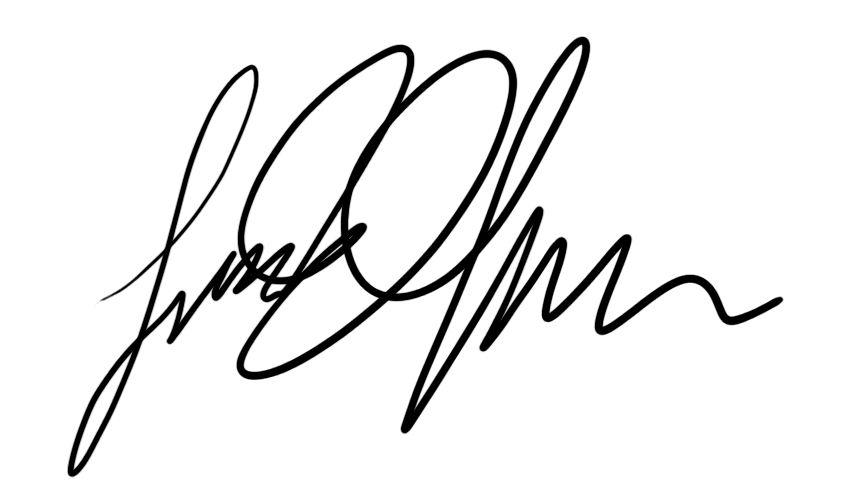
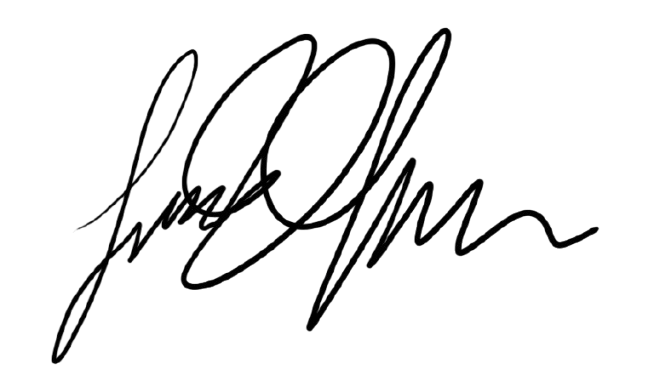
Fix: Signature image & Binary error
There was an error when the application tried to save when someone generated a certificate due the binary content, now is handled.

Also the image of the signature was fixed to look better in the certificate

diff --git a/backend/src/main/resources/templates/certificado.html b/backend/src/main/resources/templates/certificado.html
@@ -85,23 +85,23 @@
         }
 
         .firma-block {
-            margin-top: 5px;
+            margin-top: 60px;
         }
 
         .firma-block img {
             width: 150px;
-            margin-bottom: 5px;
+            display: block;
+            margin-bottom: -18px;
         }
 
         .firma-line {
             width: 200px;
-            border-top: 1px solid #000;
-            margin-top: 10px;
-            margin-bottom: 5px;
+            border-top: 1.2px solid #000;
+            margin-top: 0;
         }
 
         .firma-text {
-            margin: 2px 0;
+            margin: 10px 0 2px 0;
             font-weight: bold;
             font-size: 10pt;
         }

diff --git a/backend/src/main/java/com/unibague/magno/infrastructure/filter/ActionLoggingFilter.java b/backend/src/main/java/com/unibague/magno/infrastructure/filter/ActionLoggingFilter.java
@@ -86,9 +86,14 @@ public class ActionLoggingFilter implements Filter {
             String requestBody = getContentAsString(request.getContentAsByteArray(),
                     request.getCharacterEncoding());
 
-            // Extract response body
-            String responseBody = getContentAsString(response.getContentAsByteArray(),
-                    response.getCharacterEncoding());
+            // Extract response body (skip binary content types)
+            String responseBody = null;
+            if (!isBinaryContentType(response.getContentType())) {
+                responseBody = getContentAsString(response.getContentAsByteArray(),
+                        response.getCharacterEncoding());
+            } else {
+                responseBody = "[BINARY CONTENT - " + response.getContentType() + "]";
+            }
 
             // Create action log
             ActionLog actionLog = actionLogContextService.createActionLog(
@@ -106,6 +111,21 @@ public class ActionLoggingFilter implements Filter {
         } catch (Exception e) {
             // Silently fail - logging should never break the application
         }
+    }
+
+    private boolean isBinaryContentType(String contentType) {
+        if (contentType == null) {
+            return false;
+        }
+        String lowerContentType = contentType.toLowerCase();
+        return lowerContentType.contains("application/pdf") ||
+               lowerContentType.contains("application/octet-stream") ||
+               lowerContentType.contains("image/") ||
+               lowerContentType.contains("audio/") ||
+               lowerContentType.contains("video/") ||
+               lowerContentType.contains("application/zip") ||
+               lowerContentType.contains("application/x-") ||
+               lowerContentType.contains("application/vnd.");
     }
 
     private String getContentAsString(byte[] content, String encoding) {
